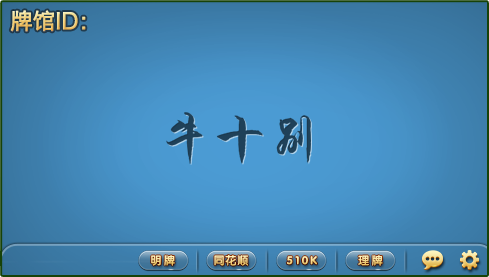
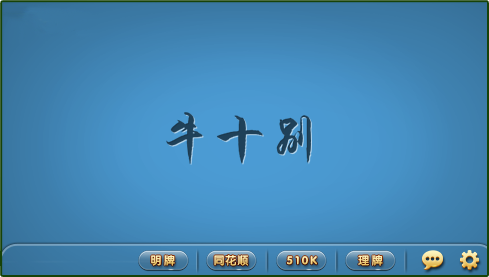
201802101902

Changed region(s): [[0.0, 0.0289, 0.184, 0.1155]]

diff --git a/Xiu_Game/resources/views/Share/Index.blade.php b/Xiu_Game/resources/views/Share/Index.blade.php
@@ -28,15 +28,15 @@
     <div style="height: 100%;">
         <div class="desk_bg">
             <div style="height: 35%;">
-                <div style="width: 35%;float: left;font-size:0.8em;">
+                <div style="width: 50%;float: left;font-size:0.8em;">
                     <div style="margin-top: 5px;font-weight: bold;text-align: right;">
                         @if(!empty($item))
-                            {{empty($item['teaid'])?"":$item['teaid']}}
+                            牌馆ID：{{empty($item['teaid'])?"":$item['teaid']}}
                         @endif
                     </div>
                     <div style="font-weight: bold;">&nbsp;&nbsp;
                         @if(!empty($item))
-                            {{empty($item['hallid'])?"":$item['hallid']}}号厅 第{{empty($item['desk'])?"":$item['desk']}}桌
+                            {{empty($item['hallid'])?"":$item['hallid']}}号厅&nbsp;第{{empty($item['desk'])?"":$item['desk']}}桌
                         @endif
 
                     </div>
